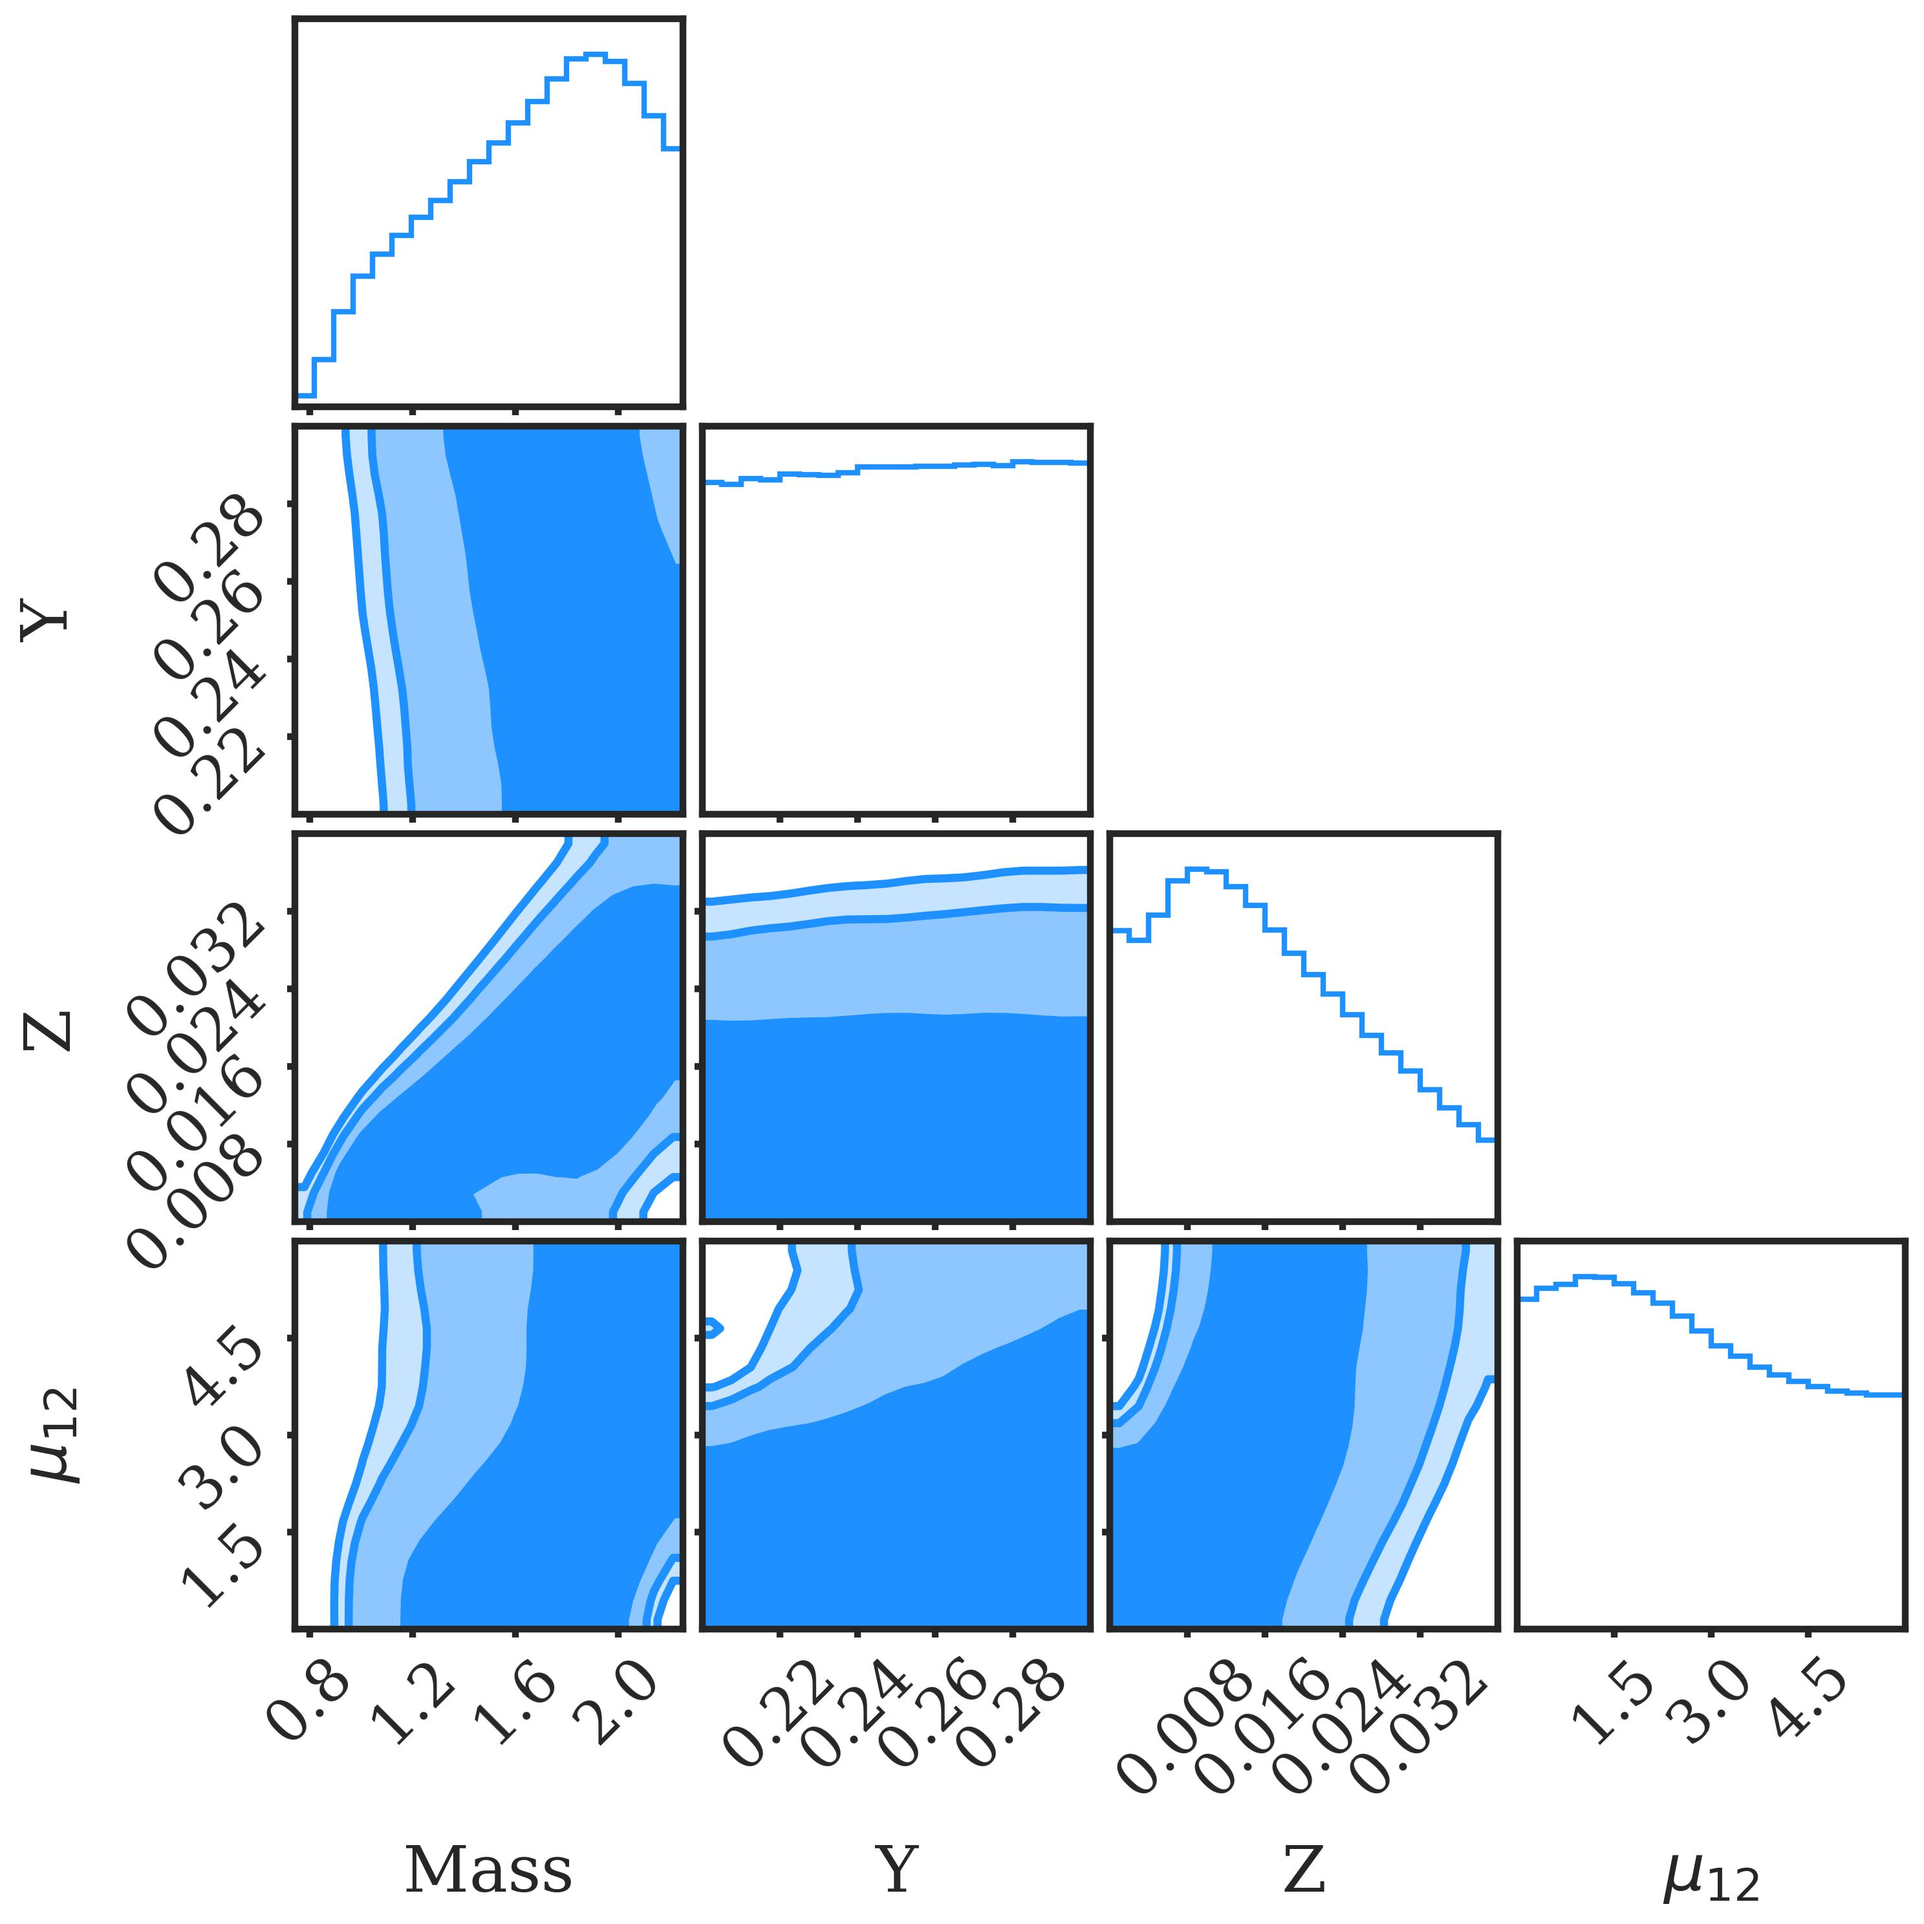
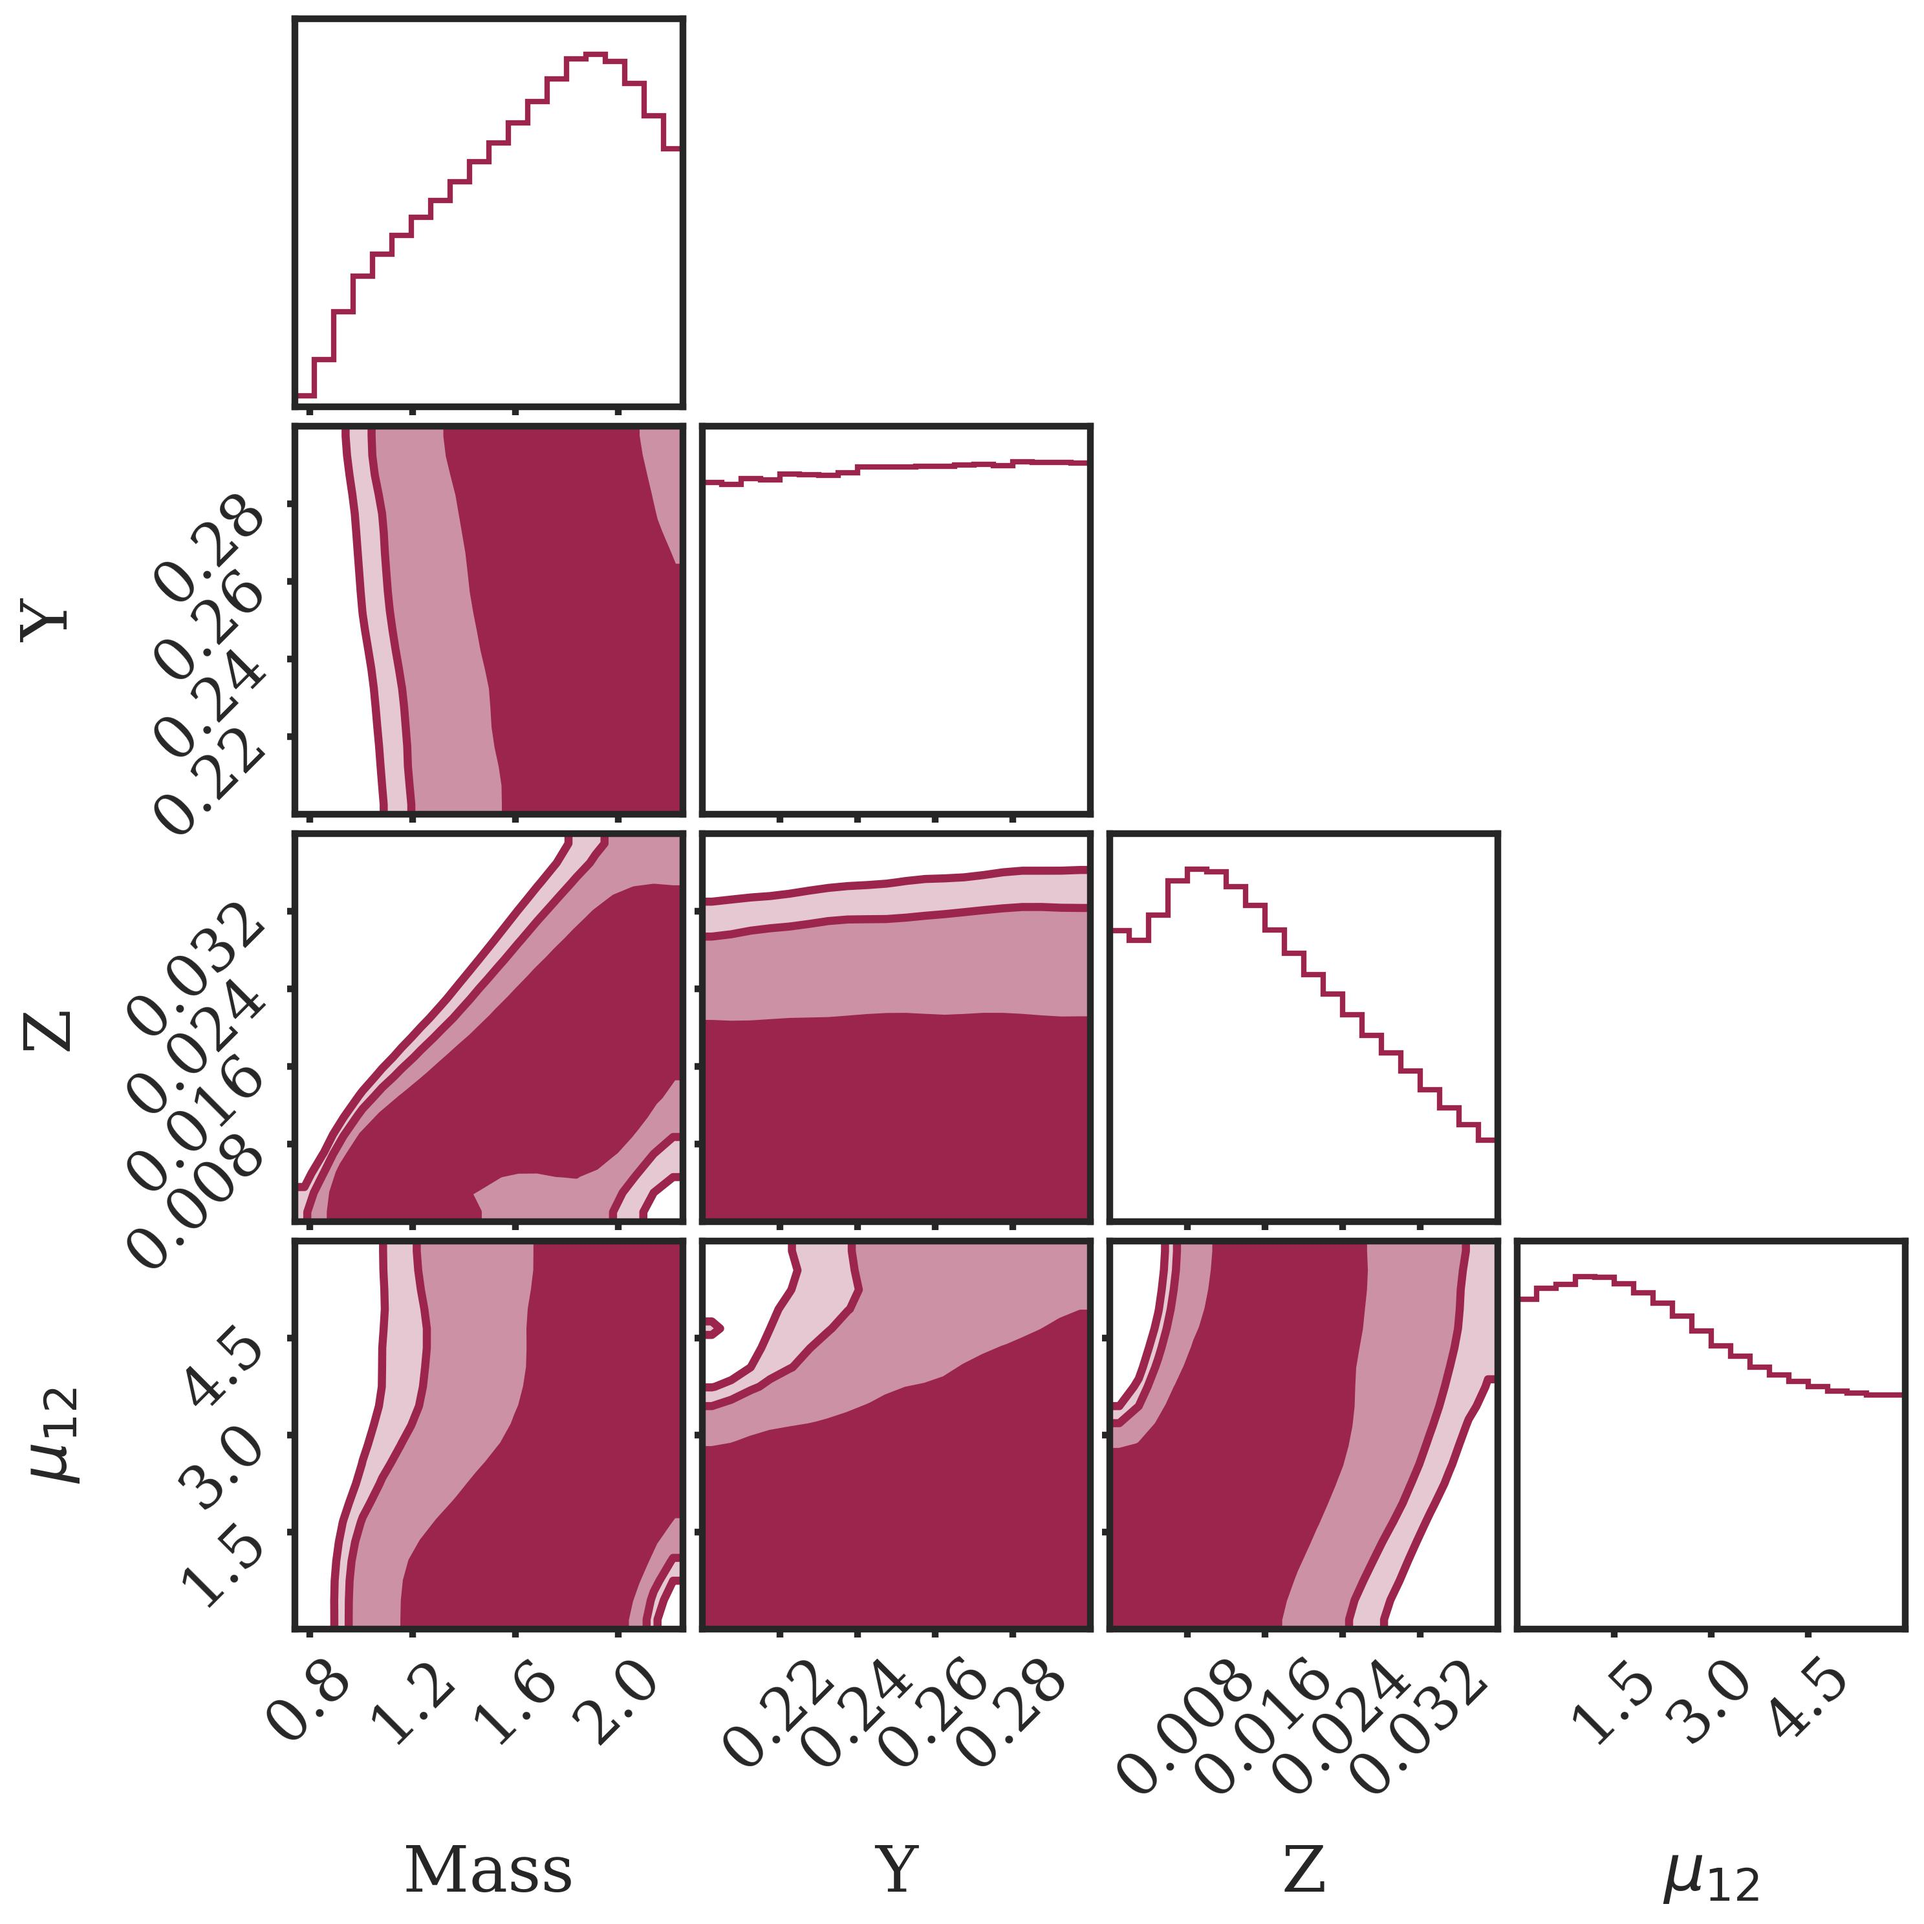
change color

diff --git a/mcmc/analyzeMCMC.py b/mcmc/analyzeMCMC.py
@@ -37,7 +37,7 @@ def plotCorner(chain, log):
     fig = corner.corner(chain,
                         labels=labels,
                         show_titles=False,
-                        color='dodgerblue',
+                        color='#9c254d',
                         smooth=True,
                         plot_datapoints=False,
                         fill_contours=True,
